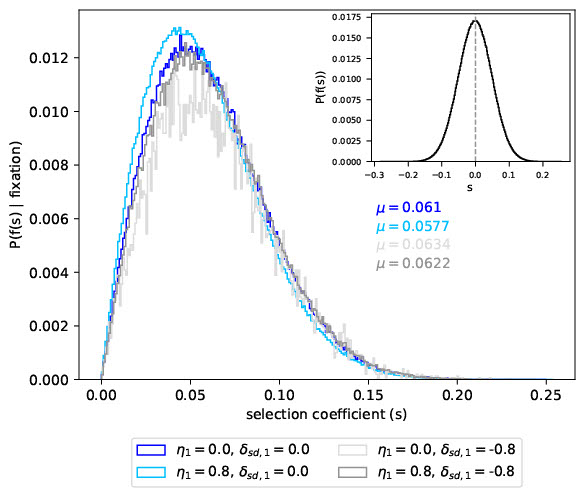
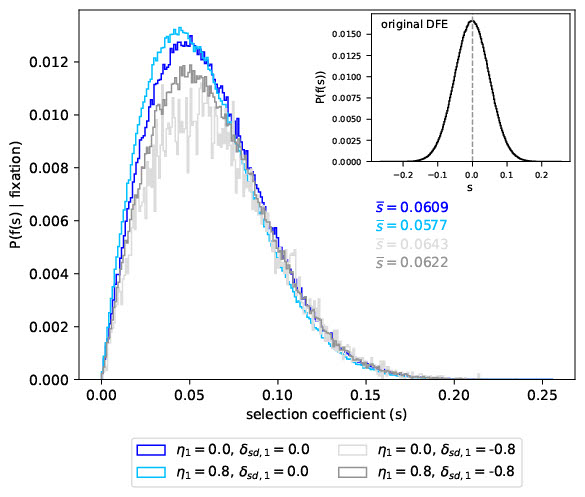
Updated Figures 6 and S13-S15

diff --git a/scripts/distribution_of_fitness_effects.py b/scripts/distribution_of_fitness_effects.py
@@ -49,6 +49,7 @@ def dfe_normal_simulations(N, mean_normal, std_normal, recessive, dominant, thre
 
     # inset with original DFE
     inset = ax.inset_axes([0.59, 0.59, 0.4, 0.4])
+    inset.text(0.05, 0.9, 'original DFE', fontsize=8, transform=inset.transAxes)
     inset.hist(s_vals, histtype='step', color='black', bins=250, weights=np.full(s_vals.shape[0], 1 / s_vals.shape[0]))
     inset.axvline(0.0, ls='--', color='gray', lw=1)
     inset.set_ylabel(r'P(f(s))', fontsize=8)
@@ -71,7 +72,7 @@ def dfe_normal_simulations(N, mean_normal, std_normal, recessive, dominant, thre
             hist, bins, _ = ax.hist(fixed_s, bins=250, color=c, histtype='step',
                                     weights=np.full(fixed_s.shape[0], 1 / fixed_s.shape[0]),
                                     label=r'$\eta_1=$' + str(round(h, 3)) + r', $\delta_{sd, 1}=$' + str(round(d, 3)))
-        ax.text(0.6, 0.45 - i * 0.05, r'$\mu=$' + str(round(fixed_s.mean(), 4)), color=c, transform=ax.transAxes,
+        ax.text(0.6, 0.45 - i * 0.05, r'$\overline{s}=$' + str(round(fixed_s.mean(), 4)), color=c, transform=ax.transAxes,
                 fontsize=10)
 
     ax.set_xlabel('selection coefficient (s)', fontsize=10)
@@ -94,11 +95,6 @@ def dfe_joint_normal_simulations_helper(args):
     @return: int, fixation probability
     """
     iterations, pars, p0, recessive, dominant = args
-    # fixations = 0
-    # for i in range(iterations):
-    #     frequency = wright_fisher(p0, pars, recessive, dominant)
-    #     if frequency[-1] == 1.0:
-    #         fixations += 1
     p_fixation = wright_fisher_fixation_prob(int(p0 * 2 * pars['N']), pars, recessive, dominant, iterations)
 
     return p_fixation
@@ -214,8 +210,6 @@ def dfe_benefical_simulations_plotting_helper(fixed_s_values, recessive, dominan
                                                          max([max(x) for x in fixed_s_values if x.shape[0] > 0])),
                                                   weights=np.full(fixed_s_values[0].shape[0],
                                                                   1 / fixed_s_values[0].shape[0]))
-    # avoid 0 division
-    # hist_classical += 1
 
     for i, (fixed_s, h, d, c) in enumerate(zip(fixed_s_values, heterosis, dmis, colors)):
         if fixed_s.shape[0] == 0:
@@ -243,7 +237,7 @@ def dfe_benefical_simulations_plotting_helper(fixed_s_values, recessive, dominan
             else:
                 ax.plot(bins_classical[:-1] * N, hist, color=c,
                         label=r'$\eta_1=$' + str(round(h, 3)) + r', $\delta_{sd, 1}=$' + str(round(d, 3)))
-        ax.text(0.7, 0.45 - i * 0.05, r'$\mu=$' + str(round(fixed_s.mean() * N, 2)), color=c, transform=ax.transAxes,
+        ax.text(0.7, 0.45 - i * 0.05, r'$N_e\overline{s}=$' + str(round(fixed_s.mean() * N, 2)), color=c, transform=ax.transAxes,
                 fontsize=10)
     return ax
 
@@ -273,6 +267,7 @@ def dfe_beneficial_simulations(population_size, mean_exp, recessive, dominant,
                                                    dmis, colors, population_size, ax)
     # inset with original DFE
     inset = ax.inset_axes([0.59, 0.59, 0.4, 0.4])
+    inset.text(0.1, 0.9, 'original DFE', fontsize=8, transform=inset.transAxes)
     inset.hist(s_vals, histtype='step', color='black', bins=250, weights=np.full(s_vals.shape[0], 1 / s_vals.shape[0]))
     inset.set_ylabel(r'P(f(s))', fontsize=8)
     inset.set_xlabel(r's', fontsize=8, labelpad=2)
